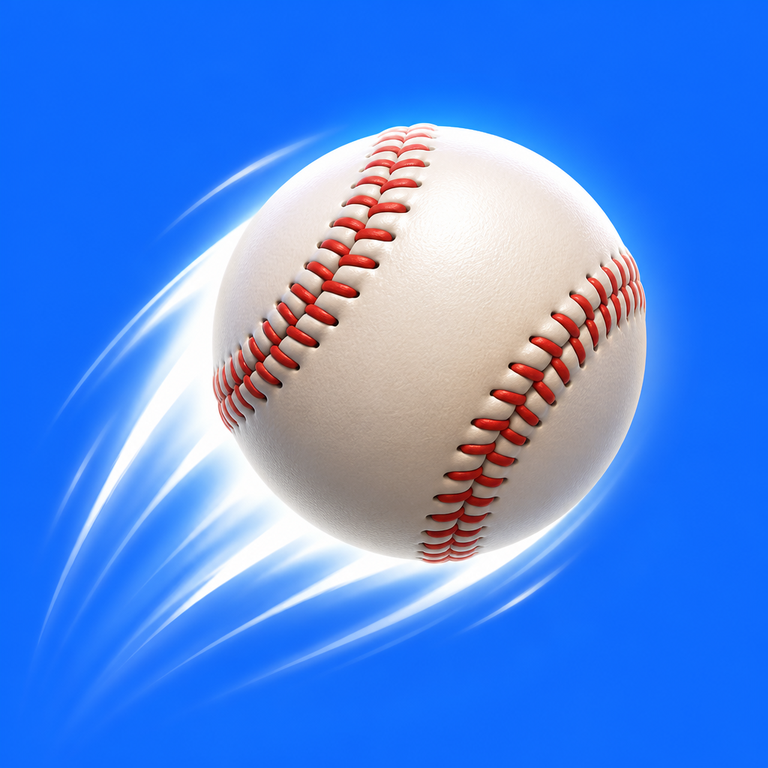
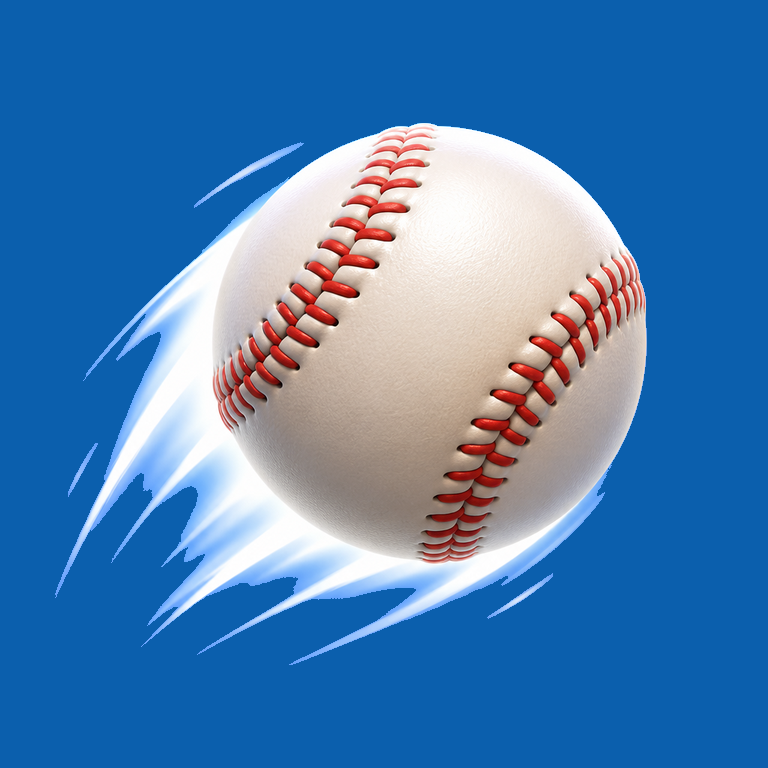
fix(philroyale): move facing, Tristan size/dmg, Baseball Huck blue
Troops flip/turn toward their movement sooner. Tristan is larger on the
field and Cheese/Cucumbers damage is 305 (−90). Baseball Huck card plate
uses the shared studio blue instead of electric blue glow.

diff --git a/philroyale/src/characters/PhotoTroop.tsx b/philroyale/src/characters/PhotoTroop.tsx
@@ -71,19 +71,19 @@ export function PhotoTroop({
   legColor = '#2a2a32',
   shoeColor = '#1a1a20',
 }: Props) {
-  // Hysteresis stops flip/back thrashing when pathing around towers (looked like two directions).
+  // Mild hysteresis — still flip promptly so troops face the way they walk.
   const flipRef = useRef(1)
   const backRef = useRef(false)
   const cosF = Math.cos(facing)
   const sinF = Math.sin(facing)
-  // Left/right: commit only when clearly sideways so sprites don't shimmer.
-  if (cosF < -0.42) flipRef.current = -1
-  else if (cosF > 0.42) flipRef.current = 1
+  // Left/right from movement facing (all PhotoTroop cards).
+  if (cosF < -0.1) flipRef.current = -1
+  else if (cosF > 0.1) flipRef.current = 1
   if (troopBackSrc) {
     // Screen-up (−Y) ⇒ back of character (your troops marching toward the enemy).
     // Screen-down (+Y) ⇒ front (enemies coming at you).
-    if (sinF < -0.38) backRef.current = true
-    else if (sinF > 0.38) backRef.current = false
+    if (sinF < -0.12) backRef.current = true
+    else if (sinF > 0.12) backRef.current = false
   } else {
     backRef.current = false
   }

diff --git a/philroyale/src/useBattle.ts b/philroyale/src/useBattle.ts
@@ -220,7 +220,7 @@ const KING_WAKE_DELAY_MS = 3000
 const CARD_CHASE_RANGE = 20
 /** Soft collision radius (tiles) for CR-style unit push / bunching. */
 const UNIT_RADIUS = 0.85
-const FACING_TURN_HARD_RAD = 0.4
+const FACING_TURN_HARD_RAD = 0.28
 
 /** Guaranteed-valid enemy spawn tiles (classic half / touchdown third). */
 const AI_SAFE_SPAWNS_CLASSIC: { col: number; row: number }[] = [
@@ -347,7 +347,8 @@ function updateFacingFromMove(u: BattleUnit, prevCol: number, prevRow: number): 
   if (Math.hypot(dCol, dRow) < 0.001) return
   const moveFacing = Math.atan2(dRow, dCol)
   const turn = Math.abs(Math.atan2(Math.sin(moveFacing - u.facing), Math.cos(moveFacing - u.facing)))
-  u.facing = turn > FACING_TURN_HARD_RAD ? moveFacing : lerpAngle(u.facing, moveFacing, 0.45)
+  // Snap on real turns so every troop faces the way it is moving.
+  u.facing = turn > FACING_TURN_HARD_RAD ? moveFacing : lerpAngle(u.facing, moveFacing, 0.72)
 }
 
 /**

diff --git a/philroyale/src/BattleScreen.tsx b/philroyale/src/BattleScreen.tsx
@@ -766,7 +766,7 @@ export function BattleScreen({
               if (uDef?.cardKind === 'building') sizeScale *= 1.28
               if (u.charId === 'bigMable') sizeScale *= 1.35
               if (u.charId === 'chicken') sizeScale *= 0.68
-              if (u.charId === 'tristan') sizeScale *= 0.72
+              if (u.charId === 'tristan') sizeScale *= 0.95
               const flight = u.launch
               let drawCol = u.col
               let drawRow = u.row

diff --git a/philroyale/src/characters/BigMableModel.tsx b/philroyale/src/characters/BigMableModel.tsx
@@ -15,7 +15,7 @@ type Props = {
  */
 export function BigMableModel({ anim, facing, attackId, portrait }: Props) {
   const uid = useId().replace(/:/g, '')
-  const flip = Math.cos(facing) < -0.15 ? -1 : 1
+  const flip = Math.cos(facing) < 0 ? -1 : 1
   const walking = anim === 'walk'
   const attacking = anim === 'attack' && attackId === 'launch'
   const vb = portrait ? '0 6 120 78' : '0 0 120 92'

diff --git a/philroyale/src/characters/CrUnitModel.tsx b/philroyale/src/characters/CrUnitModel.tsx
@@ -42,7 +42,7 @@ export function CrUnitModel({
   prop = 'none',
 }: Props) {
   const uid = useId().replace(/:/g, '')
-  const flip = Math.cos(facing) < -0.15 ? -1 : 1
+  const flip = Math.cos(facing) < 0 ? -1 : 1
   const walking = anim === 'walk'
   const attacking = anim === 'attack'
   const scale = build === 'hulk' ? 1.08 : build === 'small' ? 0.82 : 1

diff --git a/philroyale/src/UnitToken.tsx b/philroyale/src/UnitToken.tsx
@@ -89,7 +89,7 @@ export function UnitToken({
                               : charId === 'evilPhil'
                               ? '3 / 4.9'
                               : charId === 'tristan'
-                                ? '3 / 4.2'
+                                ? '3 / 4.85'
                               : '3 / 4.9',
         }}
       >

diff --git a/philroyale/src/characters/BaseballModel.tsx b/philroyale/src/characters/BaseballModel.tsx
@@ -20,6 +20,8 @@ export function BaseballModel({ anim, facing, portrait }: Props) {
       anim={anim}
       facing={facing}
       portrait={portrait}
+      // Transparent troop on shared studio blue — avoids mismatched card plate glow.
+      portraitSrc={TROOP}
       objectPos="50% 50%"
       gait="stiff"
       attack="none"

diff --git a/philroyale/src/characters.ts b/philroyale/src/characters.ts
@@ -930,7 +930,7 @@ export const TRISTAN: CharacterDef = {
       id: 'cheeseAndCucumbers',
       name: 'Cheese and Cucumbers',
       range: 20,
-      damage: 395,
+      damage: 305,
       rootWhileAttacking: true,
       maxTargets: 3,
       kind: 'cheese',
